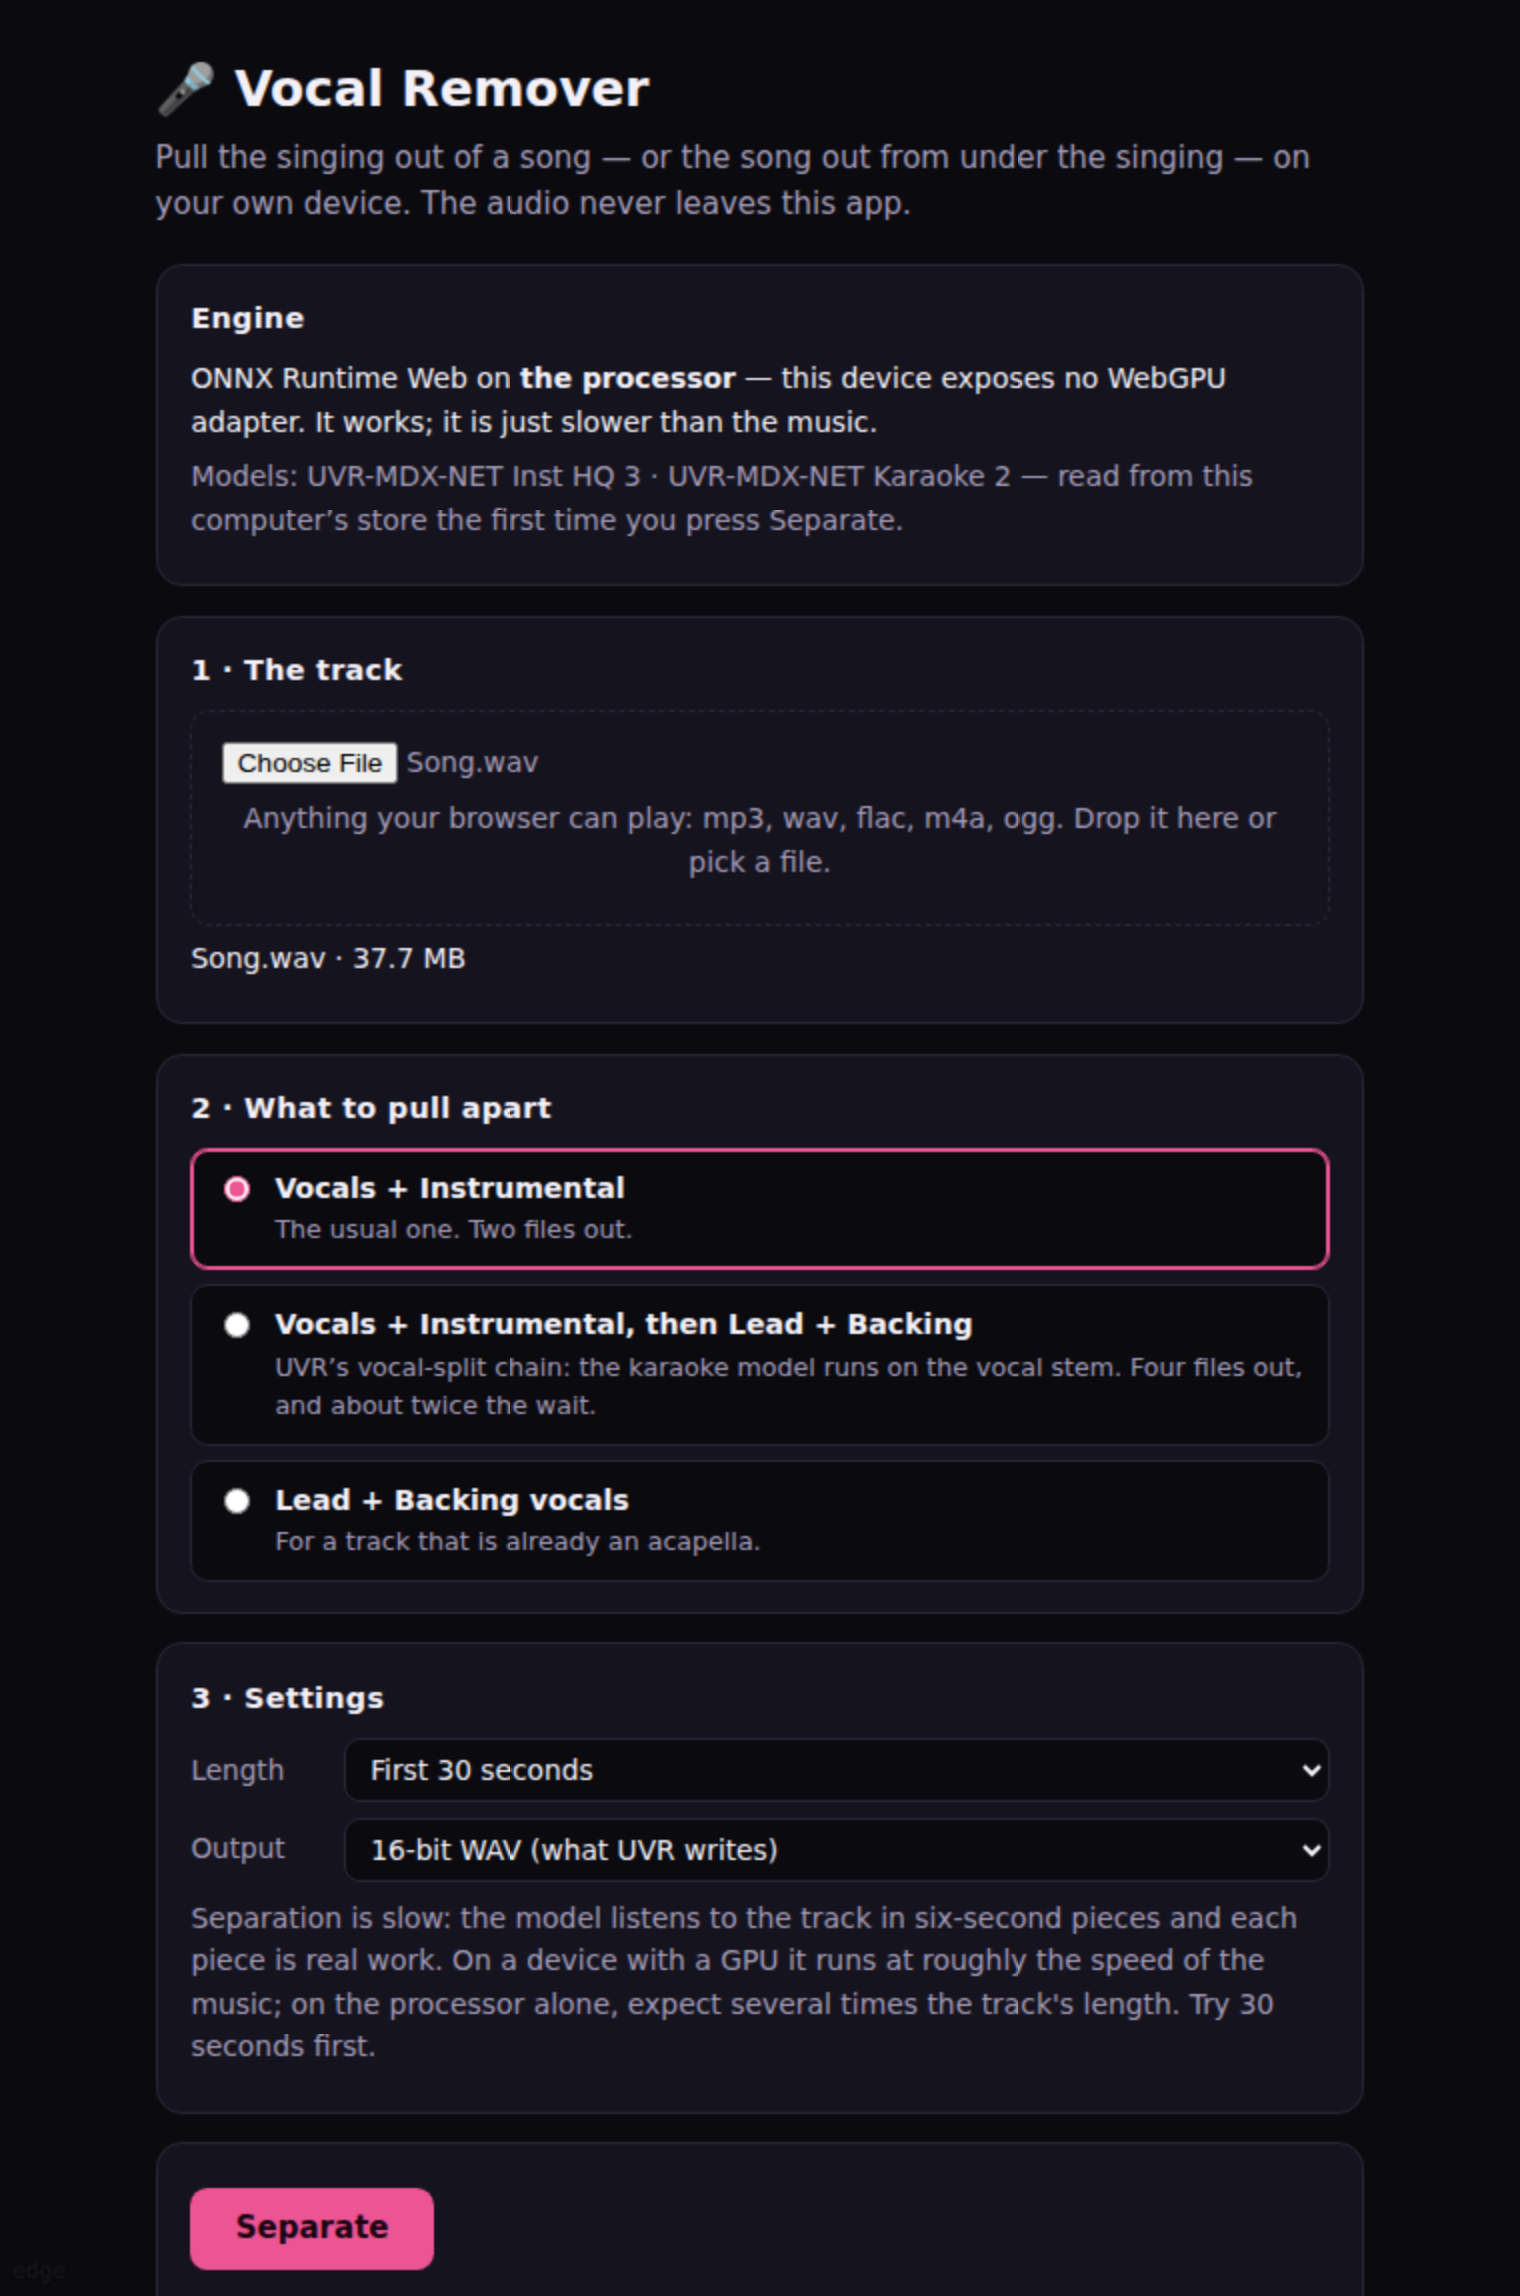
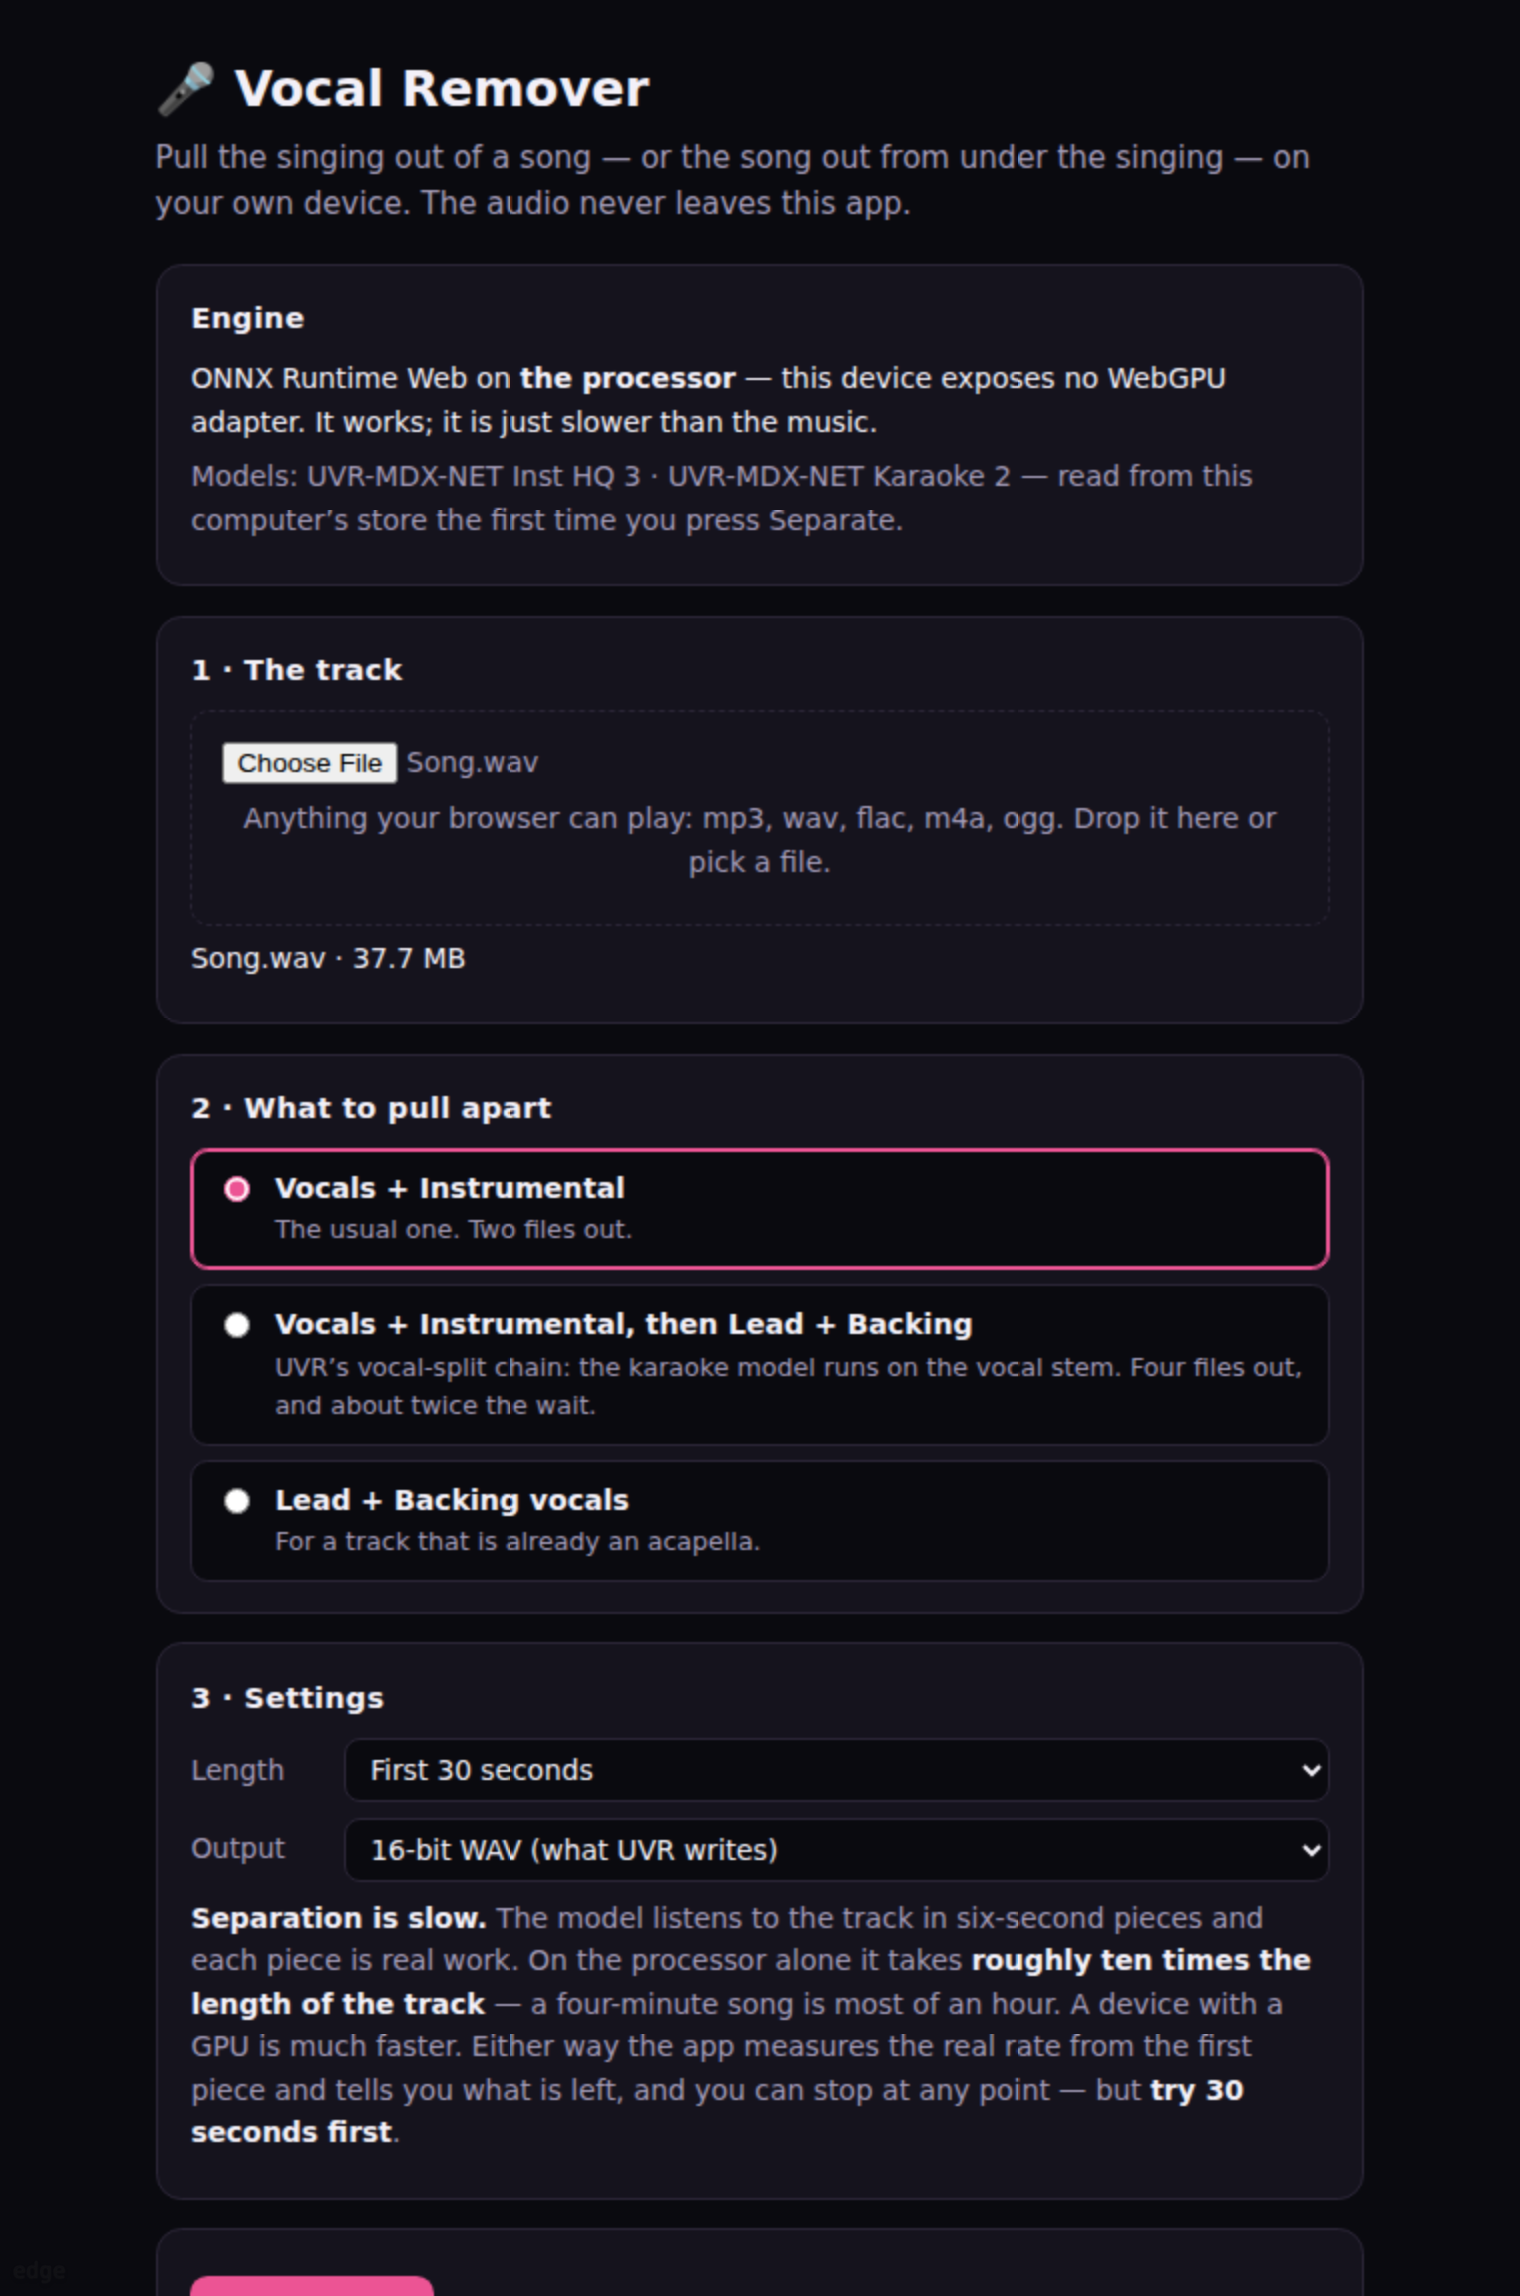
vocal-remover: the real model runs, and it is slower than I said
Ran the actual UVR weights through the built GIF in the sandbox, by serving
the two verified .onnx files locally and pointing a throwaway build's asset
pins at them origin-relative. Two things came out of it.

IT SEPARATES, to the same numbers as the Python original. On a 12 s
synthetic mix, correlating each stem against the parts that went in:

                                  reference (Python)   this app (browser)
  Instrumental vs true inst             0.875               0.875
  Instrumental vs true vocal            0.275               0.272
  Vocals       vs true vocal            0.828               0.828
  Vocals       vs true inst             0.008               0.008

(the mix itself is 0.714/0.701, so that is real work, and the 0.275/0.272
gap is stereo-vs-left-channel in how the two were measured.) The self-test
model could never have answered this: it proves the DSP, not the weights.

AND IT IS SLOW — 155 s for 12 s of audio, ~13x realtime on a 4-core VM with
no GPU. My copy said "several times the track's length", which is not what
13x means: a four-minute song is most of an hour, not a quarter of one. So
the manifest, the listing and the page now say about TEN TIMES, and the
README carries the raw measurement next to the Python numbers on the same
box (7.7 s/chunk single-threaded native) so the gap is attributable — it is
ORT-web's wasm, single-threaded by construction because SharedArrayBuffer
[…]

Changed region(s): [[0.1237, 0.804, 0.8658, 1.0]]

diff --git a/apps/vocal-remover/wav.js b/apps/vocal-remover/wav.js
@@ -58,12 +58,11 @@
     try { decoded = await tmp.decodeAudioData(arrayBuffer.slice(0)); }
     finally { try { tmp.close(); } catch (e) {} }
 
-    var startSec = opts.startSec || 0;
     var maxSec = opts.maxSec || 0;
-    var from = Math.min(decoded.length, Math.round(startSec * decoded.sampleRate));
-    var count = decoded.length - from;
-    if (maxSec > 0) count = Math.min(count, Math.round(maxSec * decoded.sampleRate));
-    if (count <= 0) throw new Error('That selection is past the end of the file.');
+    var count = maxSec > 0
+      ? Math.min(decoded.length, Math.round(maxSec * decoded.sampleRate))
+      : decoded.length;
+    if (count <= 0) throw new Error('There is no audio in that file.');
 
     var outLen = Math.max(1, Math.round(count * 44100 / decoded.sampleRate));
     var OAC = root.OfflineAudioContext || root.webkitOfflineAudioContext;
@@ -71,7 +70,7 @@
     // A trimmed copy, so the resampler only does the part we asked for.
     var slice = off.createBuffer(Math.min(2, decoded.numberOfChannels), count, decoded.sampleRate);
     for (var c = 0; c < slice.numberOfChannels; c++) {
-      slice.copyToChannel(decoded.getChannelData(c).subarray(from, from + count), c);
+      slice.copyToChannel(decoded.getChannelData(c).subarray(0, count), c);
     }
     var src = off.createBufferSource();
     src.buffer = slice;

diff --git a/apps/vocal-remover/app.js b/apps/vocal-remover/app.js
@@ -19,7 +19,7 @@
   var S = {
     file: null, buf: null, job: 'split', bits: 16, maxSec: 0,
     running: false, stop: false, gpu: false, ep: null,
-    sessions: {}, selfTest: false, results: [],
+    sessions: {}, selfTest: false, results: [], urls: [],
   };
 
   // ---- engine ---------------------------------------------------------------
@@ -227,10 +227,15 @@
   function renderStems(stems) {
     var host = $('stems');
     host.textContent = '';
+    // A stem is tens of megabytes and a second run makes a whole new set, so
+    // the last run's object URLs are released rather than left holding them.
+    S.urls.forEach(function (u) { try { URL.revokeObjectURL(u); } catch (e) {} });
+    S.urls = [];
     stems.forEach(function (s) {
       var enc = window.VRWAV.encodeWav(s.audio, 44100, S.bits);
       var blob = new Blob([enc.bytes], { type: 'audio/wav' });
       var url = URL.createObjectURL(blob);
+      S.urls.push(url);
       var name = baseName() + '_(' + s.name + ').wav';
 
       var el = document.createElement('div');

diff --git a/apps/vocal-remover/index.html b/apps/vocal-remover/index.html
@@ -57,7 +57,7 @@
         <option value="32">32-bit float WAV (never clips)</option>
       </select>
     </div>
-    <p class="muted">Separation is slow: the model listens to the track in six-second pieces and each piece is real work. On a device with a GPU it runs at roughly the speed of the music; on the processor alone, expect several times the track's length. Try 30 seconds first.</p>
+    <p class="muted"><b>Separation is slow.</b> The model listens to the track in six-second pieces and each piece is real work. On the processor alone it takes <b>roughly ten times the length of the track</b> — a four-minute song is most of an hour. A device with a GPU is much faster. Either way the app measures the real rate from the first piece and tells you what is left, and you can stop at any point — but <b>try 30 seconds first</b>.</p>
   </div>
 
   <div class="card">

diff --git a/apps/vocal-remover/README.md b/apps/vocal-remover/README.md
@@ -53,9 +53,13 @@ accumulated recurrence — the recurrence has drifted noticeably by the time it
 has walked 3072 butterflies, and a spectrogram is not somewhere a slow phase
 error announces itself.
 
-At `n_fft` 6144 it is 0.27 ms a transform, about 0.3 s per chunk for both
-directions and both channels — against 10–20 s of model inference for the same
-chunk. It is not the bottleneck and was not optimised as if it were.
+At `n_fft` 6144 it is 0.27 ms a transform, so about 0.3 s per chunk for both
+directions and both channels — against the ~38 s the model itself takes for that
+chunk in the browser (see the measurement below). Under 1% of the work: it is
+not the bottleneck and was deliberately not optimised as if it were. (The
+obvious trick — packing the two real channels into one complex transform, which
+halves both directions — would buy about 0.4% and cost a second code path in
+the one place a mistake is inaudible.)
 
 ## The models
 
@@ -126,24 +130,66 @@ pairing; this one needs exactly the same pairing, and a private copy would be
 bundle's export shape, so a vendor bump that changes it fails there rather than
 in a player's browser.
 
-## Speed, said plainly
+## Speed, with the number actually measured
 
-Separation is real work. Measured single-threaded on this box's CPU, one 5.78 s
-chunk of Inst HQ 3 takes 7.7 s natively; ORT-web's wasm is slower still, and it
-is single-threaded by construction (`SharedArrayBuffer` needs cross-origin
-isolation, which an opaque-origin app frame does not have). On WebGPU it is far
-faster. So:
+Separation is real work, and the number is worse than "a bit slow", so it is
+written down here rather than rounded off in the copy.
 
-- **with a GPU**: roughly the length of the track.
-- **on the processor**: several times the length of the track.
+**Measured, end to end, in the browser sandbox** (4-core VM, no GPU,
+onnxruntime-web wasm, Inst HQ 3 with its frequency-cut pass):
 
-The app says which one it is on, measures a real ETA from the first chunk, has
-a Stop button, and offers "first 30 seconds" so nobody commits a quarter of an
-hour to find out whether they like the result.
+```
+12 s of audio  ->  155 s     ~13x realtime
+```
+
+For reference on the same box, the same model under Python's onnxruntime takes
+7.7 s per 5.78 s chunk single-threaded (1.34× realtime) and 5.4 s on four
+threads. So ORT-web's wasm is the expensive part, and it is single-threaded **by
+construction**: `SharedArrayBuffer` needs cross-origin isolation, which an
+opaque-origin app frame does not have, so `numThreads` above 1 only produces a
+worker that fails.
+
+So the honest statement, and the one the app makes, is **about ten times the
+length of the track on the processor** — a four-minute song is most of an hour.
+A faster desktop CPU will beat 13×; this box was also running the browser.
+
+**WebGPU is not measured.** Headless Chromium here exposes no adapter, so the
+GPU path has never been timed. MDX-Net is convolutions and ORT-web has WebGPU
+kernels for all of them, so it should be much faster — but "much faster" is as
+specific as anything here is allowed to be until somebody times it. The app
+says which execution provider it got, and every estimate it shows is measured
+live from its own first chunk rather than predicted, which is the part that
+protects the user either way.
+
+Alongside that: a Stop button that takes effect between chunks, and a "first 30
+seconds" setting, so nobody commits an hour to find out whether they like the
+result.
 
 Memory is the other honest limit. Everything is float32 (as UVR has it), but a
 4-minute stereo track still means a ~60 MB array several times over, plus the
 ONNX session. Desktop is fine; a phone on a long track is not guaranteed.
+
+## Does it actually separate?
+
+Yes, and to the same numbers as the Python original. A 12 s synthetic mix
+(chords + bass + hats under a formant-shaped, vibrato'd melody) was separated
+twice: once by `tools/mdx_ref.py` under Python's onnxruntime, once by the built
+GIF in the sandbox. Correlation of each stem against the parts that went into
+the mix:
+
+| | reference (Python) | this app (browser) |
+|---|---|---|
+| Instrumental vs true instrumental | 0.875 | 0.875 |
+| Instrumental vs true vocal | 0.275 | 0.272 |
+| Vocals vs true vocal | 0.828 | 0.828 |
+| Vocals vs true instrumental | 0.008 | 0.008 |
+
+(the mix itself scores 0.714 / 0.701, so the separation is doing real work; the
+0.275/0.272 gap is stereo-vs-left-channel in how the two were measured.)
+
+That run is not in the gate — it needs the 120 MB of weights — but it is
+reproducible: serve the two `.onnx` files from `site/`, point a throwaway build's
+asset pins at them origin-relative, and run it.
 
 ## How it is guarded
 
